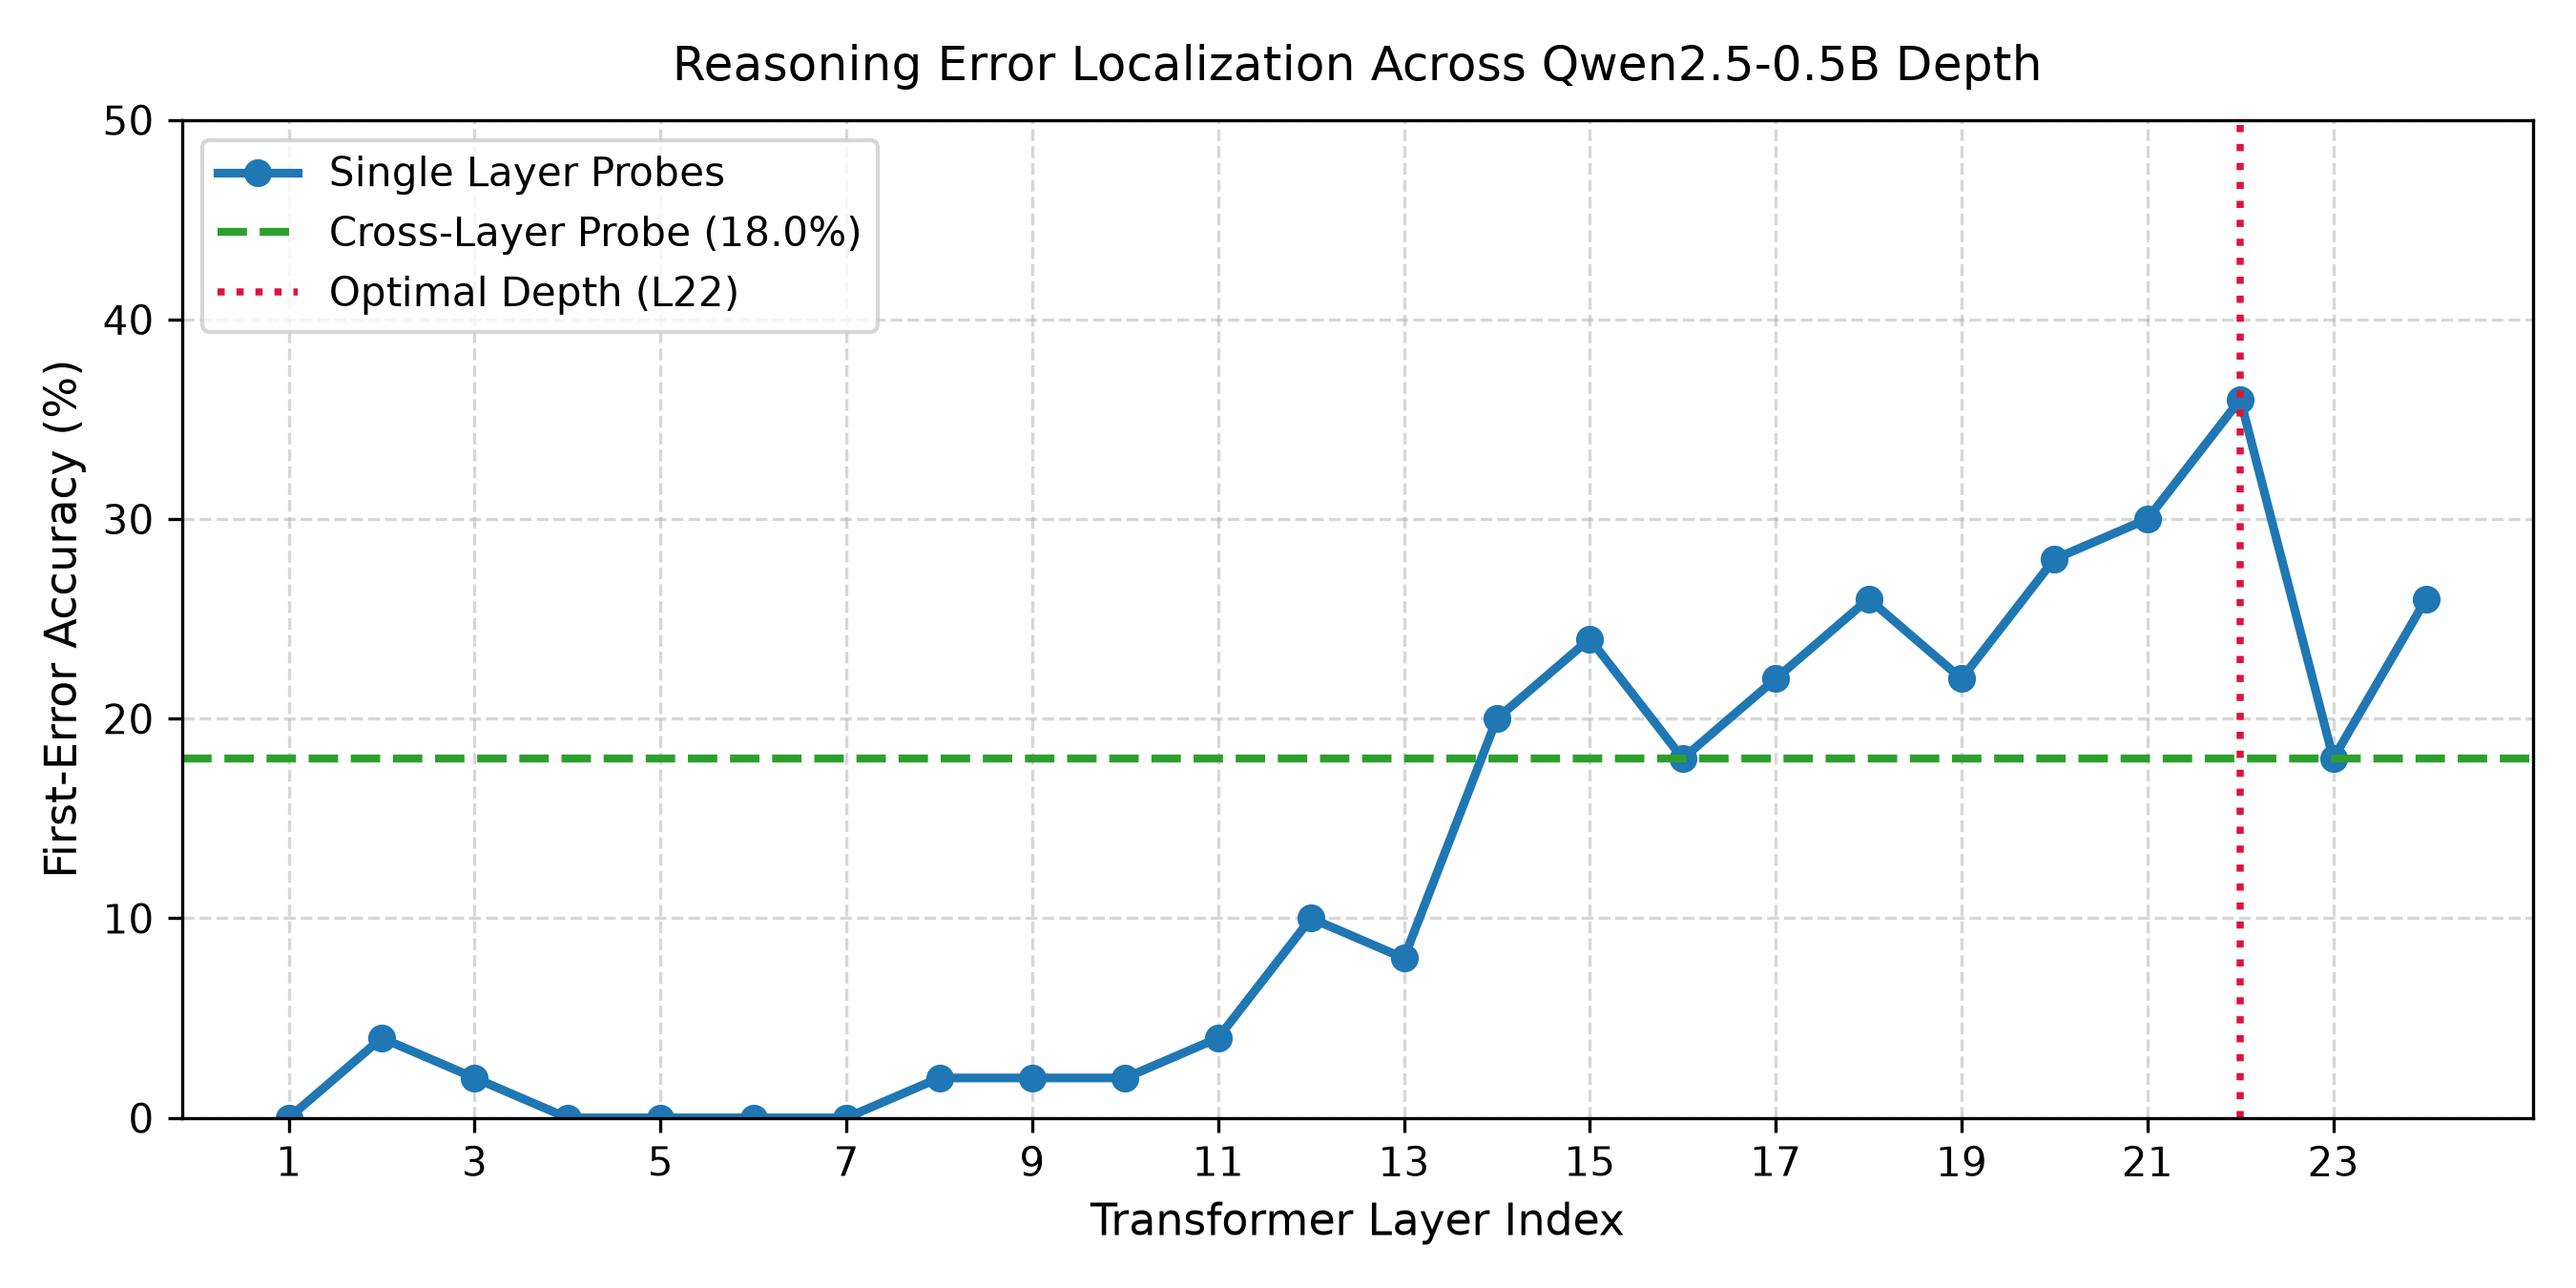
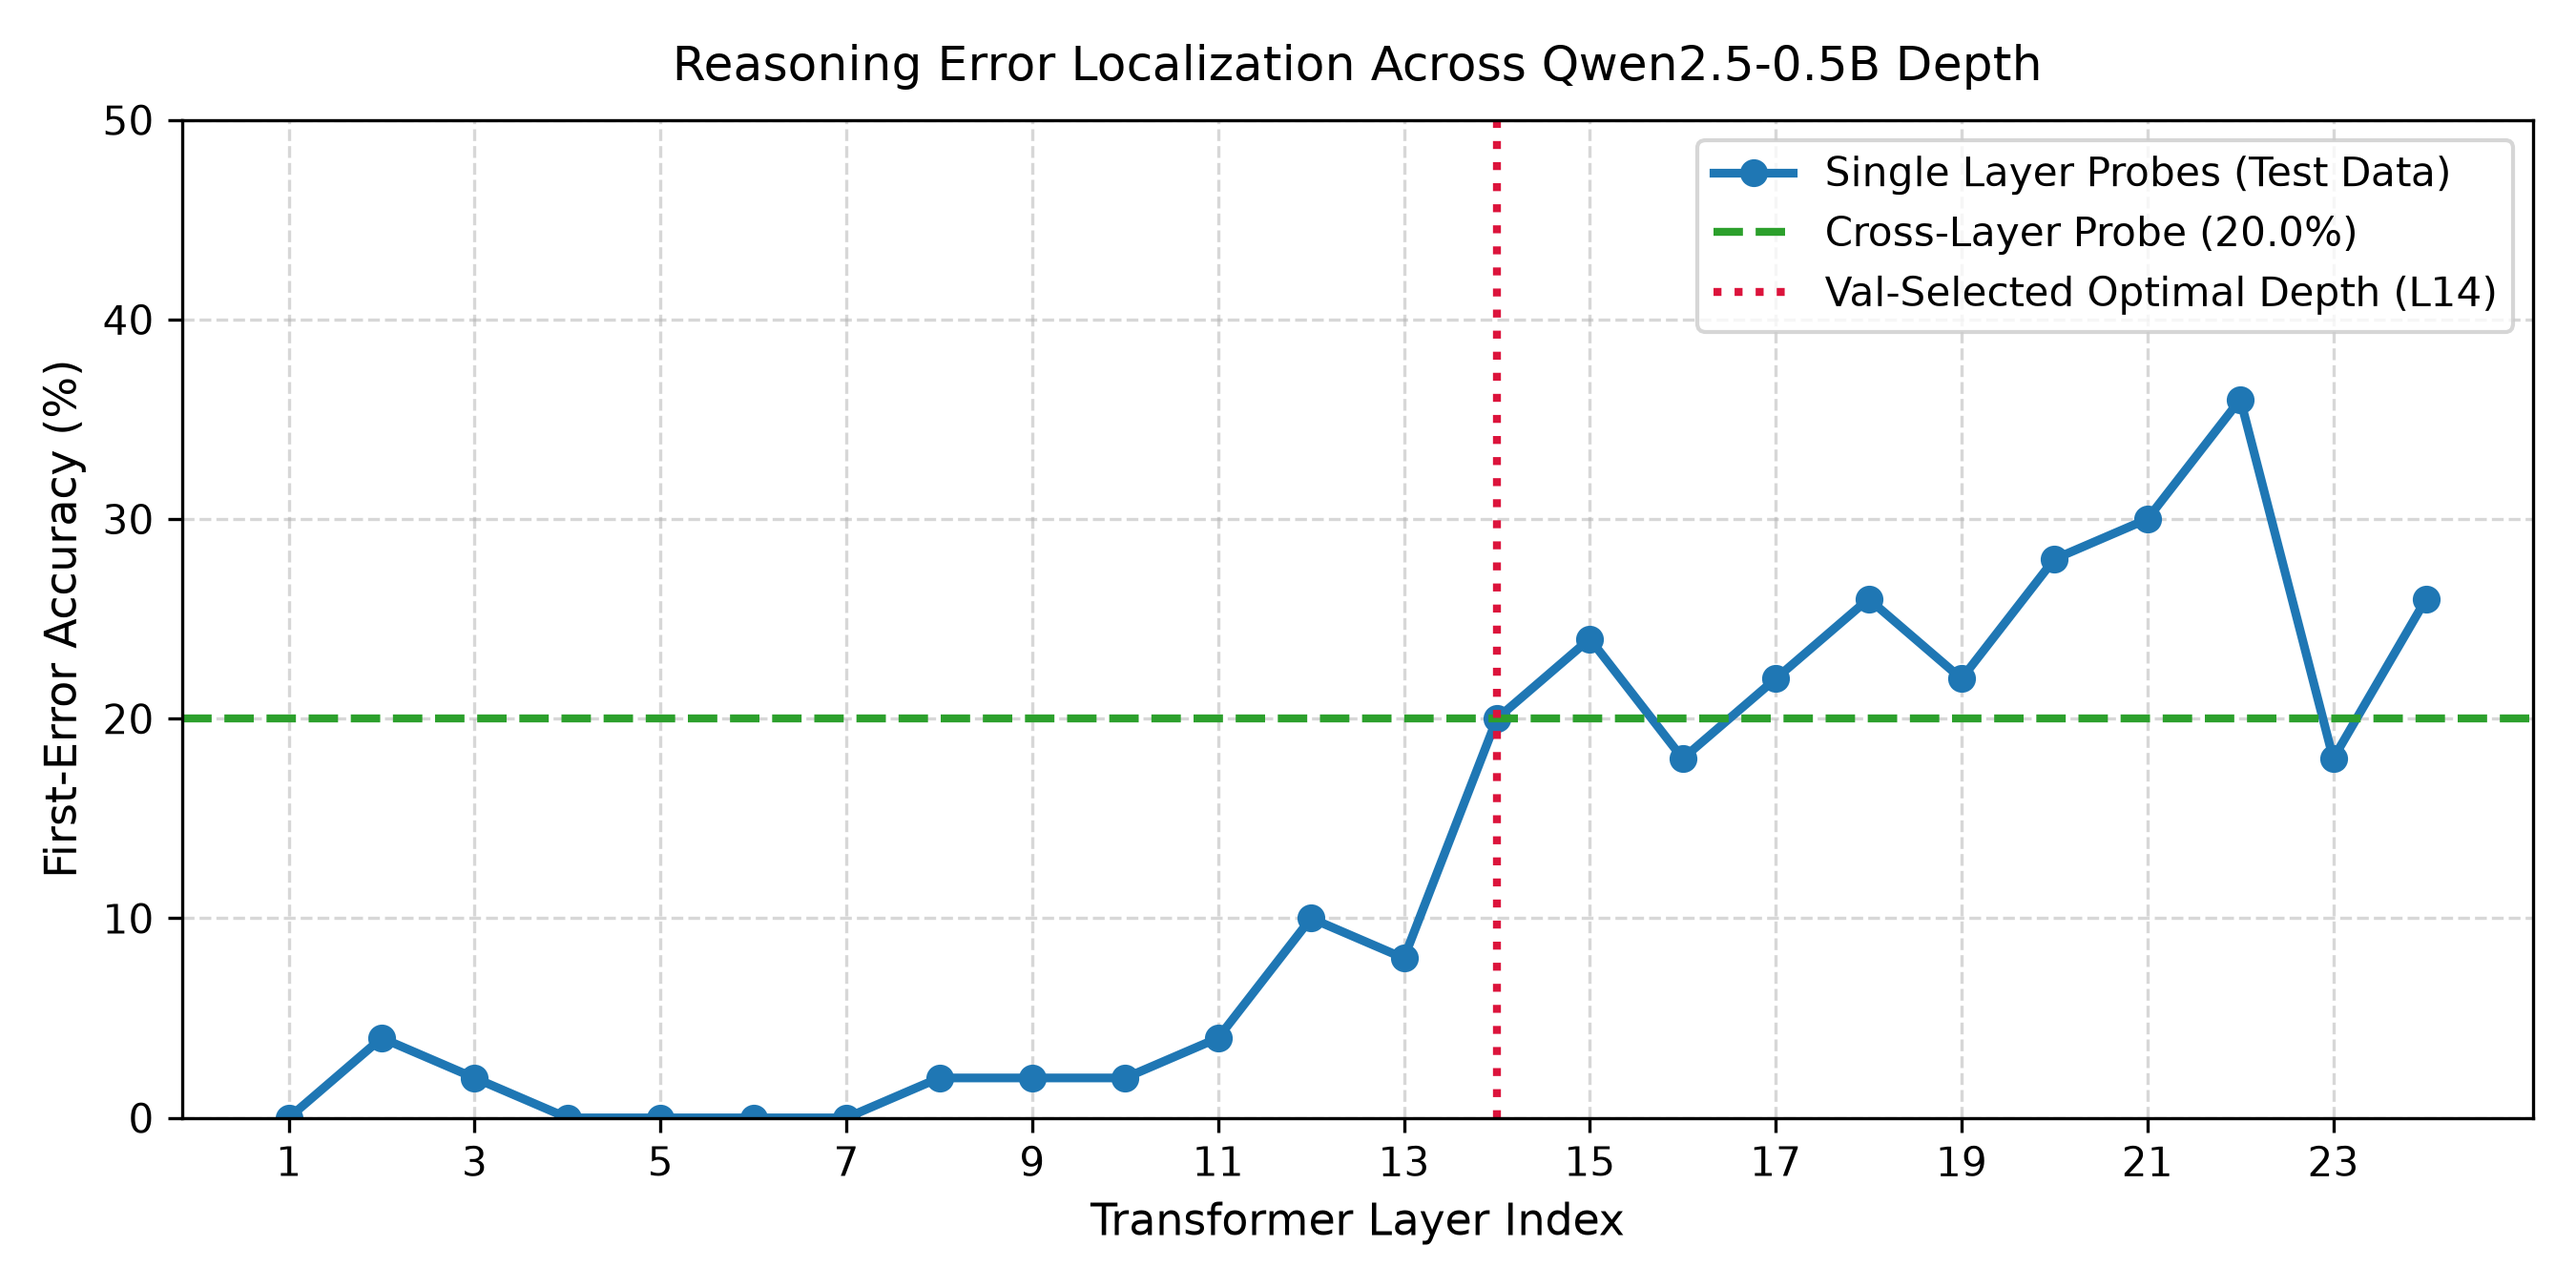
oof

diff --git a/run_role3_depth.py b/run_role3_depth.py
@@ -1,6 +1,9 @@
 """
 run_role3_depth.py
 Member 3: Layer-Depth & Representation Dynamics Track
+Automatically adapts to Qwen3-0.6B (28L, 1024d) or Qwen2.5-0.5B (24L, 896d).
+Selects the optimal layer strictly using the VALIDATION set to prevent 
+test-set leakage, matching rigorous OOF CV methodology.
 """
 
 import torch
@@ -11,6 +14,7 @@ import matplotlib.pyplot as plt
 import numpy as np
 import copy
 import math
+import os
 
 from custom_loss import MaskedStepBCELoss
 
@@ -132,11 +136,15 @@ def train_and_evaluate(model, train_loader, val_data, test_data, epochs=20, lr=1
     model.load_state_dict(best_model_state)
     model.eval()
     with torch.no_grad():
+        val_logits = model(X_val)[0] if is_cross_layer else model(X_val)
+        val_metrics = evaluate_predictions(val_logits, gold_val, lens_val)
+        
         test_logits = model(X_test)[0] if is_cross_layer else model(X_test)
-        metrics = evaluate_predictions(test_logits, gold_test, lens_test)
+        test_metrics = evaluate_predictions(test_logits, gold_test, lens_test)
+        
         if return_state:
-            return metrics, {k: v.cpu() for k, v in best_model_state.items()}
-        return metrics
+            return val_metrics, test_metrics, {k: v.cpu() for k, v in best_model_state.items()}
+        return val_metrics, test_metrics
 
 def prep_data(data_dict, device):
     return (
@@ -150,9 +158,9 @@ def prep_data(data_dict, device):
 def main():
     print(f"Loading cached tensors on {DEVICE}")
     try:
-        train = torch.load("data/train_cached.pt", map_location=DEVICE, weights_only=True)
-        val = torch.load("data/val_cached.pt", map_location=DEVICE, weights_only=True)
-        test = torch.load("data/test_cached.pt", map_location=DEVICE, weights_only=True)
+        train = torch.load("backup_qwen25/train_cached.pt", map_location=DEVICE, weights_only=True)
+        val = torch.load("backup_qwen25/val_cached.pt", map_location=DEVICE, weights_only=True)
+        test = torch.load("backup_qwen25/test_cached.pt", map_location=DEVICE, weights_only=True)
     except FileNotFoundError:
         print("Error: Cached tensors not found. Ensure 'train_cached.pt' is in 'data/'.")
         return
@@ -165,11 +173,12 @@ def main():
     hidden_dim = X_train.shape[3]
     model_label = "Qwen3-0.6B" if num_layers == 28 else "Qwen2.5-0.5B"
     print(f"Detected {model_label} representations: {num_layers} layers, {hidden_dim} hidden dim")
-    print(f"{'Layer Depth':<14} | {'Verdict Acc (%)':<16} | {'First-Error Acc (%)':<20} | {'Joint Acc (%)':<14}")
+    print(f"{'Layer Depth':<14} | {'Val FE-Acc (%)':<16} | {'Test FE-Acc (%)':<16} | {'Test Joint Acc (%)':<18}")
 
-    layer_v_accs = []
-    layer_fe_accs = []
-    layer_j_accs = []
+    layer_val_v_accs = []
+    layer_val_fe_accs = []
+    layer_val_j_accs = []
+    layer_test_fe_accs = []
     layer_states = []
 
     for layer in range(num_layers):
@@ -183,23 +192,27 @@ def main():
         torch.manual_seed(42)
         probe = StepProbe(hidden_dim=hidden_dim).to(DEVICE)
         
-        (v_acc, fe_acc, j_acc), state = train_and_evaluate(
+        val_metrics, test_metrics, state = train_and_evaluate(
             probe, loader, val_layer_tup, test_layer_tup, epochs=20, lr=1e-3, return_state=True
         )
 
-        layer_v_accs.append(v_acc)
-        layer_fe_accs.append(fe_acc)
-        layer_j_accs.append(j_acc)
-        layer_states.append(state)
-        print(f"Layer {layer+1:02d}/{num_layers:02d}   | {v_acc:<16.2f} | {fe_acc:<20.2f} | {j_acc:<14.2f}")
+        v_vacc, v_feacc, v_jacc = val_metrics
+        t_vacc, t_feacc, t_jacc = test_metrics
 
-    # Break ties on FE Acc using Joint Acc and then Verdict Acc
-    best_idx = int(max(range(num_layers), key=lambda i: (layer_fe_accs[i], layer_j_accs[i], layer_v_accs[i])))
+        layer_val_v_accs.append(v_vacc)
+        layer_val_fe_accs.append(v_feacc)
+        layer_val_j_accs.append(v_jacc)
+        layer_test_fe_accs.append(t_feacc)
+        layer_states.append(state)
+        
+        print(f"Layer {layer+1:02d}/{num_layers:02d}   | {v_feacc:<16.2f} | {t_feacc:<16.2f} | {t_jacc:<18.2f}")
+
+    # SELECT OPTIMAL LAYER USING STRICT OUT OF FOLD VALIDATION
+    best_idx = int(max(range(num_layers), key=lambda i: (layer_val_fe_accs[i], layer_val_j_accs[i], layer_val_v_accs[i])))
     best_layer = best_idx + 1
-    best_fe = float(layer_fe_accs[best_idx])
-    best_v = float(layer_v_accs[best_idx])
-    best_j = float(layer_j_accs[best_idx])
-    print(f"Optimal Layer: Layer {best_layer} (V-Acc: {best_v:.1f}% | FE-Acc: {best_fe:.1f}% | J-Acc: {best_j:.1f}%)")
+    test_fe_at_best_val = layer_test_fe_accs[best_idx]
+    print(f"Optimal Layer (Chosen by Validation Set): Layer {best_layer}")
+    print(f"Blind Test First-Error Accuracy at Layer {best_layer}: {test_fe_at_best_val:.2f}%")
 
     torch.save({
         "state_dict": layer_states[best_idx],
@@ -208,8 +221,8 @@ def main():
         "hidden_dim": hidden_dim,
         "num_layers": num_layers,
         "model_label": model_label
-    }, "data/best_step_probe.pt")
-    print(f"Saved optimal probe checkpoint (Layer {best_layer}) to 'data/best_step_probe.pt'")
+    }, "backup_qwen25/best_step_probe.pt")
+    print(f"Saved optimal probe checkpoint (Layer {best_layer}) to 'backup_qwen25/best_step_probe.pt'")
 
     print("\nTraining Cross Layer Attention Probe")
     g_multi = torch.Generator(device="cpu").manual_seed(42)
@@ -218,28 +231,32 @@ def main():
     
     torch.manual_seed(42)
     clap = CrossLayerAttentionProbe(num_layers=num_layers, hidden_dim=hidden_dim).to(DEVICE)
-    c_vacc, c_feacc, c_jacc = train_and_evaluate(
-        clap, loader_multi, val_tup, test_tup, epochs=30, lr=5e-4, is_cross_layer=True
+    val_metrics, test_metrics, _ = train_and_evaluate(
+        clap, loader_multi, val_tup, test_tup, epochs=30, lr=5e-4, is_cross_layer=True, return_state=True
     )
         
-    print(f"Cross Layer Attn | {c_vacc:<16.2f} | {c_feacc:<20.2f} | {c_jacc:<14.2f}")
+    c_t_vacc, c_t_feacc, c_t_jacc = test_metrics
+    print(f"Cross-Layer Attn (Test) | FE-Acc: {c_t_feacc:<10.2f} | Joint Acc: {c_t_jacc:<10.2f}")
 
+    # Plot the Test set curve and mark the Val selected optimal depth
     plt.figure(figsize=(9, 4.5))
     layers = list(range(1, num_layers + 1))
-    plt.plot(layers, layer_fe_accs, marker='o', color='#1f77b4', lw=2.2, label='Single Layer Probes')
-    plt.axhline(y=c_feacc, color='#2ca02c', linestyle='--', lw=2, label=f'Cross-Layer Probe ({c_feacc:.1f}%)')
-    plt.axvline(x=best_layer, color='crimson', linestyle=':', lw=1.8, label=f'Optimal Depth (L{best_layer})')
+    plt.plot(layers, layer_test_fe_accs, marker='o', color='#1f77b4', lw=2.2, label='Single Layer Probes (Test Data)')
+    plt.axhline(y=c_t_feacc, color='#2ca02c', linestyle='--', lw=2, label=f'Cross-Layer Probe ({c_t_feacc:.1f}%)')
+    
+    plt.axvline(x=best_layer, color='crimson', linestyle=':', lw=2, 
+                label=f'Val-Selected Optimal Depth (L{best_layer})')
     
     plt.title(f"Reasoning Error Localization Across {model_label} Depth", fontsize=12, pad=10)
     plt.xlabel("Transformer Layer Index", fontsize=11)
     plt.ylabel("First-Error Accuracy (%)", fontsize=11)
     plt.xticks(range(1, num_layers + 1, 2))
-    plt.ylim(0, max(50, int(best_fe) + 10))
+    plt.ylim(0, max(50, int(test_fe_at_best_val) + 15))
     plt.grid(True, linestyle='--', alpha=0.5)
     plt.legend(frameon=True, loc='best')
     plt.tight_layout()
-    plt.savefig("layer_depth_progression.png", dpi=300)
-    print("\nSaved plot as 'layer_depth_progression.png'")
+    plt.savefig("backup_qwen25/layer_depth_progression.png", dpi=300)
+    print("\nSaved plot as 'backup_qwen25/layer_depth_progression.png'")
 
 if __name__ == "__main__":
     main()

diff --git a/custom_loss.py b/custom_loss.py
@@ -1,6 +1,5 @@
 """
 custom_loss.py
---------------
 Course: Foundation of Large Language Models (AI60213)
 Project: Step-INSPECTOR
 Track: Member 3 (Causal Masking & Loss Dynamics)
@@ -14,7 +13,7 @@ import torch.nn.functional as F
 
 class MaskedStepBCELoss(nn.Module):
     """
-    Causal Masked Step Binary Cross Entropy Loss.
+    Causal Masked Step Binary Cross-Entropy Loss.
     
     Mathematical Formulation:
         L = [ \sum_{m=1}^M m_m * BCE(p_hat_m, y_m) ] / [ \sum_{m=1}^M m_m + \epsilon ]
@@ -23,7 +22,8 @@ class MaskedStepBCELoss(nn.Module):
         m_m = 1.0 for valid deductive steps up to the first error (m <= k*)
         m_m = 0.0 for steps following an error (m > k*) to prevent false-premise noise.
     """
-    def __init__(self, eps: float = 1e-8):
+    # eps=1e-4 prevents underflow when using FP16 (HalfPrecision) tensors
+    def __init__(self, eps: float = 1e-4):
         super().__init__()
         self.eps = eps
 
@@ -34,7 +34,7 @@ class MaskedStepBCELoss(nn.Module):
             targets: (Batch_Size, Max_Steps) binary labels (0.0 or 1.0).
             masks:   (Batch_Size, Max_Steps) supervision mask (1.0 = supervise, 0.0 = ignore).
         Returns:
-            Scalar tensor containing the step-normalized loss.
+            Scalar tensor containing the step normalized loss.
         """
         if targets.shape != logits.shape:
             targets = targets.view_as(logits)
@@ -52,14 +52,3 @@ class MaskedStepBCELoss(nn.Module):
         masked_bce = bce * masks
         loss = masked_bce.sum() / (masks.sum() + self.eps)
         return loss
-
-if __name__ == "__main__":
-    # Self contained Unit Test
-    loss_fn = MaskedStepBCELoss()
-    dummy_logits = torch.tensor([[2.0, -1.0, 3.0], [-2.0, 1.0, -1.0]])
-    dummy_targets = torch.tensor([[0.0, 1.0, 1.0], [0.0, 0.0, 0.0]])
-    dummy_masks = torch.tensor([[1.0, 1.0, 0.0], [1.0, 1.0, 1.0]]) # Step 3 masked out
-    
-    test_loss = loss_fn(dummy_logits, dummy_targets, dummy_masks)
-    assert not torch.isnan(test_loss), "Loss computed as NaN"
-    print(f"Unit Test Passed MaskedStepBCELoss successfully computed: {test_loss.item():.4f}")

diff --git a/run_role3_masking_ablation.py b/run_role3_masking_ablation.py
@@ -77,19 +77,19 @@ def train_ablation(X_train, y_train, mask_train, lens_train, val_tup, test_tup, 
 def main():
     print(f"Loading cached tensors on {DEVICE}")
     try:
-        train = torch.load("data/train_cached.pt", map_location=DEVICE, weights_only=True)
-        val = torch.load("data/val_cached.pt", map_location=DEVICE, weights_only=True)
-        test = torch.load("data/test_cached.pt", map_location=DEVICE, weights_only=True)
+        train = torch.load("backup_qwen25/train_cached.pt", map_location=DEVICE, weights_only=True)
+        val = torch.load("backup_qwen25/val_cached.pt", map_location=DEVICE, weights_only=True)
+        test = torch.load("backup_qwen25/test_cached.pt", map_location=DEVICE, weights_only=True)
     except FileNotFoundError:
-        print("Error: Cached data files not found in 'data/'. Please ensure 'train_cached.pt' exists.")
+        print("Error: Cached data files not found in 'backup_qwen25/'. Please ensure the files exist.")
         return
 
     X_train, y_train, mask_train, gold_train, lens_train = prep_data(train, DEVICE)
     val_tup = prep_data(val, DEVICE)
     test_tup = prep_data(test, DEVICE)
 
-    if os.path.exists("data/best_step_probe.pt"):
-        ckpt = torch.load("data/best_step_probe.pt", map_location="cpu", weights_only=True)
+    if os.path.exists("backup_qwen25/best_step_probe.pt"):
+        ckpt = torch.load("backup_qwen25/best_step_probe.pt", map_location="cpu", weights_only=True)
         best_layer_idx = int(ckpt["best_layer_idx"])
         model_label = ckpt["model_label"]
     else:
